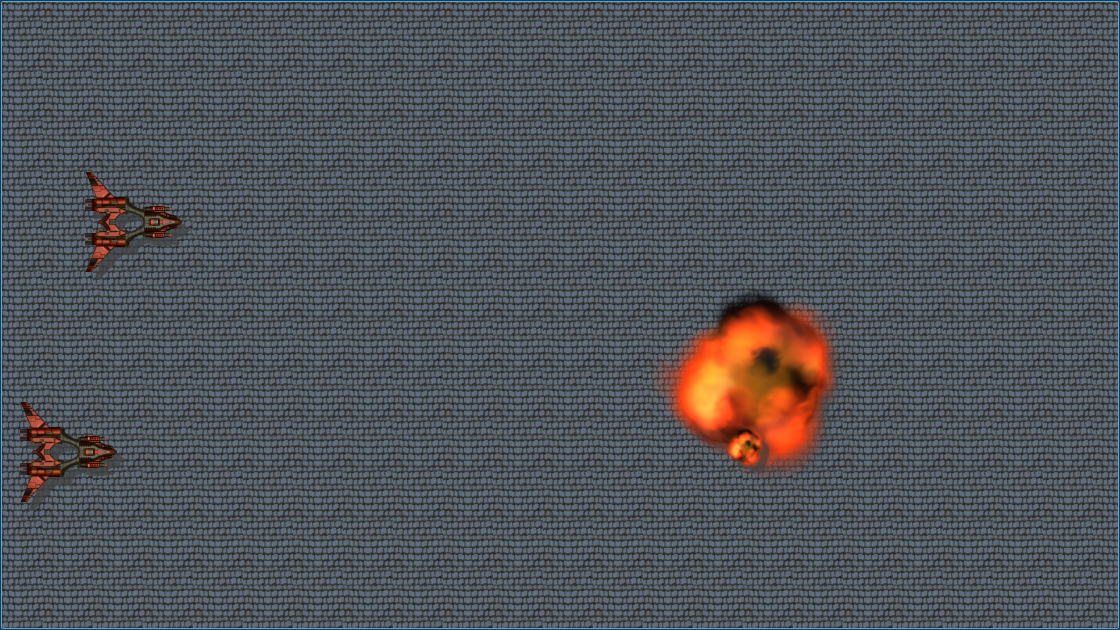
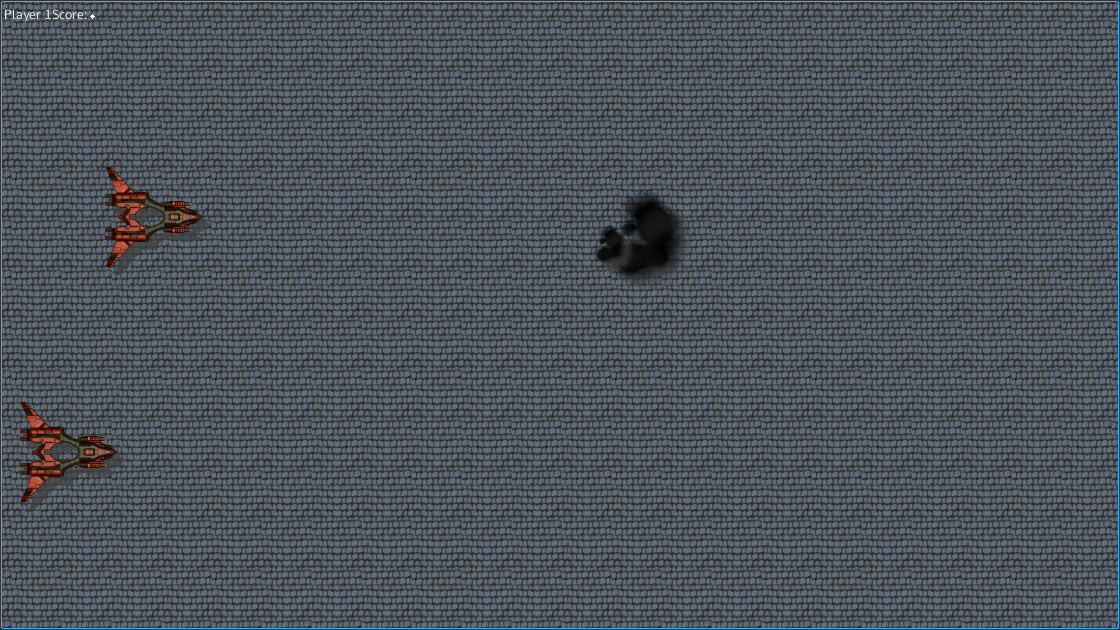
Project Update

diff --git a/Sources/Source Files/Game Objects/MyShip.cpp b/Sources/Source Files/Game Objects/MyShip.cpp
@@ -32,16 +32,16 @@ MyShip::MyShip(const QPixmap &pixmap, QString *name) :
 	lsr_tmr->start(MyRes::shp_lsrdly);
 
 	if (*MyShip::name == "1") {
-		scr_txt = new QGraphicsTextItem(SettingData::p1_nm + "Score: " + QString(scr));
+		scr_txt = new QGraphicsTextItem(SettingData::p1_nm + " Score: " + QString(scr));
 	}
 	else {
-		scr_txt = new QGraphicsTextItem(SettingData::p2_nm + "Score: " + QString(scr));
+		scr_txt = new QGraphicsTextItem(SettingData::p2_nm + " Score: " + QString(scr));
 	}
 	if (*MyShip::name == "1") {
-		lf_txt = new QGraphicsTextItem(SettingData::p1_nm + "Life: " + QString(lf));
+		lf_txt = new QGraphicsTextItem(SettingData::p1_nm + " Life: " + QString(lf));
 	}
 	else {
-		lf_txt = new QGraphicsTextItem(SettingData::p2_nm + "Life: " + QString(lf));
+		lf_txt = new QGraphicsTextItem(SettingData::p2_nm + " Life: " + QString(lf));
 	}
 
 	QTimer::connect(shld_tmr, SIGNAL(timeout()), this, SLOT(deactivate_shld()));
@@ -272,16 +272,16 @@ void MyShip::updt_txt() {
 	scr_txt->setPos(scr_txt->pos().x() + MyRes::vw_mvmnt, scr_txt->pos().y());
 	lf_txt->setPos(lf_txt->pos().x() + MyRes::vw_mvmnt, lf_txt->pos().y());
 	if (*MyShip::name == "1") {
-		scr_txt->setPlainText(SettingData::p1_nm + "Score: " + QString(scr));
+		scr_txt->setPlainText(SettingData::p1_nm + " Score: " + QString(scr));
 	}
 	else {
-		scr_txt->setPlainText(SettingData::p2_nm + "Score: " + QString(scr));
+		scr_txt->setPlainText(SettingData::p2_nm + " Score: " + QString(scr));
 	}
 	if (*MyShip::name == "1") {
-		lf_txt->setPlainText(SettingData::p1_nm + "Life: " + QString(lf));
+		lf_txt->setPlainText(SettingData::p1_nm + " Life: " + QString(lf));
 	}
 	else {
-		lf_txt->setPlainText(SettingData::p2_nm + "Life: " + QString(lf));
+		lf_txt->setPlainText(SettingData::p2_nm + " Life: " + QString(lf));
 	}
 }
 

diff --git a/Sources/Source Files/Widgets/MyGame.cpp b/Sources/Source Files/Widgets/MyGame.cpp
@@ -19,6 +19,8 @@ MyGame::MyGame(QWidget *parent) :
 	tmp = new MyShip(QPixmap(MyRes::shp_adds[SettingData::uShp]), new QString("1"));
 	gscn->addItem(tmp);
 	gscn->addItem(tmp->shpshld);
+	gscn->addItem(tmp->scr_txt);
+	tmp->scr_txt->setPos(0, 0);
 
 	tmp = new MyShip(QPixmap(MyRes::shp_adds[SettingData::uShp]), new QString("2"));
 	tmp->setPos(20, 400);
